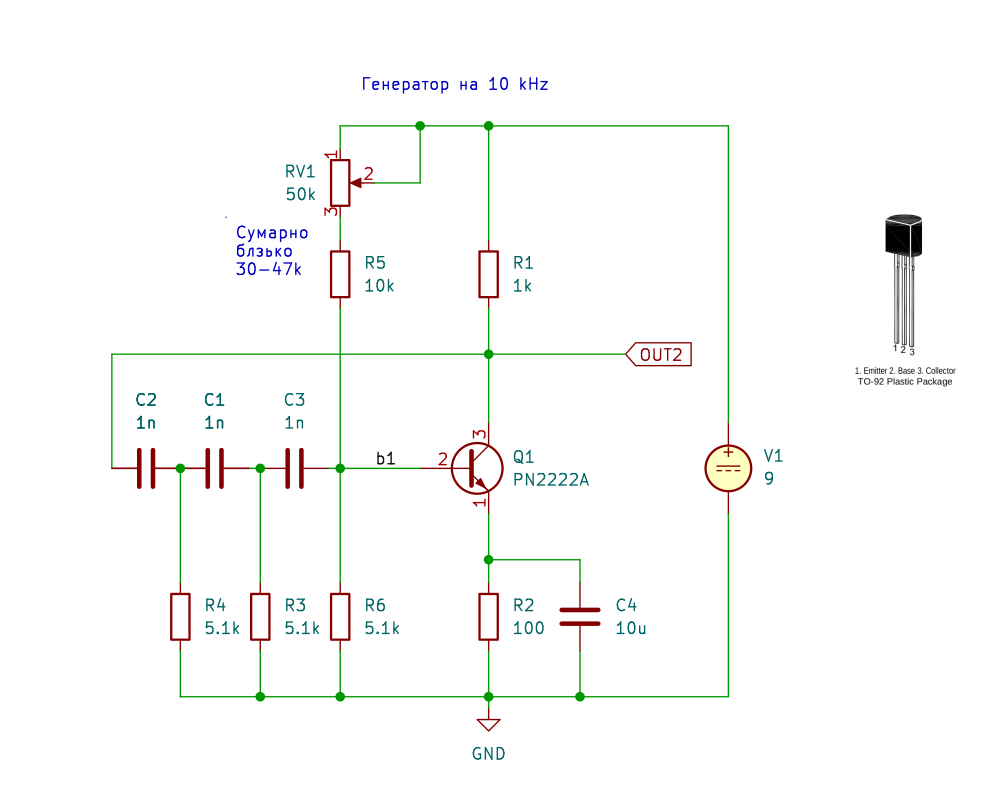
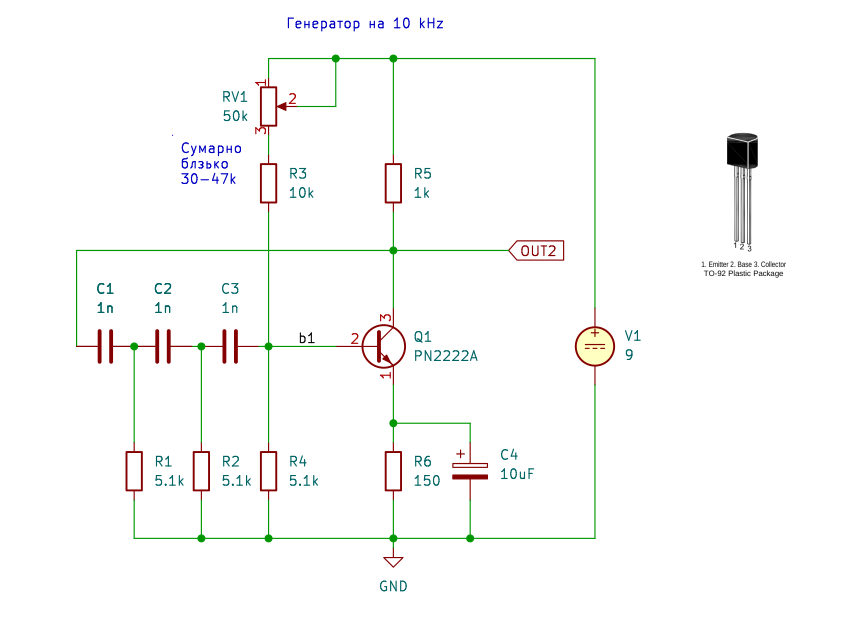
gensin-6

diff --git a/_posts/2025-01-16-e-lab-gensin.md b/_posts/2025-01-16-e-lab-gensin.md
@@ -103,36 +103,38 @@ published: true
 ДатаШит на цей транзистор пожна подивитися за лінком: [2N2222](../assets/img/posts/2025-01-16-e-lab-gensin/doc/2n2222_2n2222a.pdf). 
 За показниками тестера транзисторів в мультиметрі, коефіцієнт передачі транзисторів по току 242 і 276. 
 
-### <a name="p3">3. Проблеми запуску на налагодження генераторів</a>
+### <a name="p4">4. Проблеми запуску на налагодження генераторів</a>
 
 Спершу я розірвав зворотній зв'язок що йде від колектора до конденсатора фазо-зміщуючого ланціюжка С1 і  виставив режим  роботи транзистора на постійному струму десь 
-в районі 4.7V-5.1V. Потім відновив з'єднання і генерація зразу пішла. Ну може трошки спотворена форма синусу, але за допомогою змінного резистора RV1, я її відкорегував. 
+в районі 5.1V-6.2V. Потім відновив з'єднання і генерація зразу пішла. Ну може трошки спотворена форма синусу, але за допомогою змінного резистора RV1, я її відкорегував. 
 Основною проблемою  при запуску було те, що я не оцінив важливісь конlенсатора С4 і поставив "що було під рукою", а саме неполярний 100nF. В результаті генератор видава 
 прекрасний синус на частоті 25-26 kHz, але зміна коненсаторів фазо-зміщуйочого ланціюжка призводила до зриву генерації, а зміна резисторів в ланцюжку могла монизити 
 частоту десь до 25kHz. А от як тільки замінив С4 на 100 uF,  так зразу генератори і запрацювали на потрібній частоті. Пізніше, вже дослідним шляхом підібрав найнижчі 
 номінали C4,  при яких частота генерації стабільна, звичайно, з того що в мене було. Фактично, отримав частоти генерації: 1,2 kHz  та 13 kHz. Тобто відхилення від номінала 
 до 30%, але поки мені це не приципово. Без конденсатора C4  генерація взагалі не запускається. При замалому номіналі C4  частота генерації збільшується. При ємності в 1uF  на 
 генераторі 10kHz  частота піднімалася до 16kHz. Чому так відбувається, я пояснення не знайшов. Цей конденсатор повинен обмежувати  низькі частоти. Але чому він так впливає на 
-частоту генерації - поки не знаю. Зовнішній вигляд змантованих генераторів на макетній платі показано на: [pic-06](#pic-06).
+частоту генерації - поки не знаю. 
+
+А ще, у мене нижній сегмент синусоїди був трошки спотворений, незважаючи на всі мої спроби акуратно покрутити резистор RV1.  Цю проблему я виправив, шляхом 
+збільшення негативного зворотнього зв'язку по постійному струму, а саме збільшив номінал R6 зі 100 до 150kOm
+
+Зовнішній вигляд змантованих генераторів на макетній платі показано на: [pic-06](#pic-06).
 
 <kbd><img src="../assets/img/posts/2025-01-16-e-lab-gensin/doc/pic-06.jpg" /></kbd>
 <p style="text-align: center;"><a name="pic-06">pic-06</a></p>
 
 
-А ще, у мене нижній сегмент синусоїди був трошки спотворений, незважаючи на всі мої спроби акуратно покрутити резистор RV1.  Цю проблему я виправив, шляхом 
-збільшення негативного зворотнього зв'язку по постійному струму, а саме збільшив номінал R6 зі 100 до 150kOm
 
 Ліворуч змонтовано генератор на 1kHz, а праворуч на 10kHz. Генератори мають роздільне живлення. Так, зараз червоний провід від крони підключений до верхньої шини і 
 живить генератор на 1kHz. Для того, щоб заживити генератор на 10kHz червоний провід від крони треба перенсти на нижню черону шину макетної плати.  Правороч темні 
 проводки  з'єднали загальну шину. Туди підходить чорний провід від крони. В Збільшеному варіанті монтаж генераторів показано на   [pic-07](#pic-07)
 
+### <a name="p5">5. Тестування генератора 1 kHz</a>
+
 <kbd><img src="../assets/img/posts/2025-01-16-e-lab-gensin/doc/pic-07.jpg" /></kbd>
 <p style="text-align: center;"><a name="pic-07">pic-07</a></p>
 
 Тепер трошки займемося вимірами генератора на 1 kHz. Далі наведені покази осцилографа для шенератора на 1 кГц
-
-
-
 
 <TITLE>Покази осцилографа на 1 кГц</TITLE>
 </HEAD>
@@ -160,6 +162,8 @@ published: true
 <kbd><img src="../assets/img/posts/2025-01-16-e-lab-gensin/doc/pic-11.jpg" /></kbd>
 <p style="text-align: center;"><a name="pic-11">pic-11</a></p>
 
+
+### <a name="p6">6. Тестування генератора 10 kHz</a>
 
 
 
